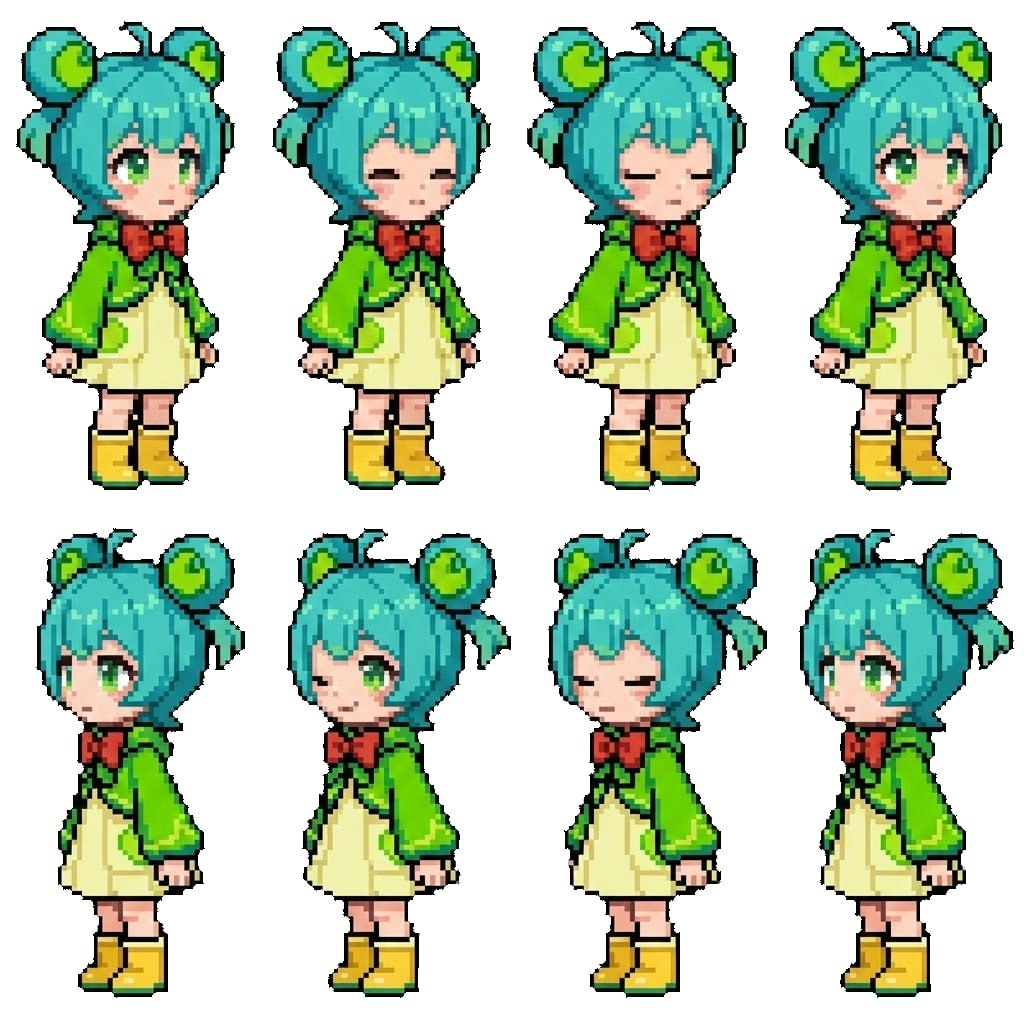
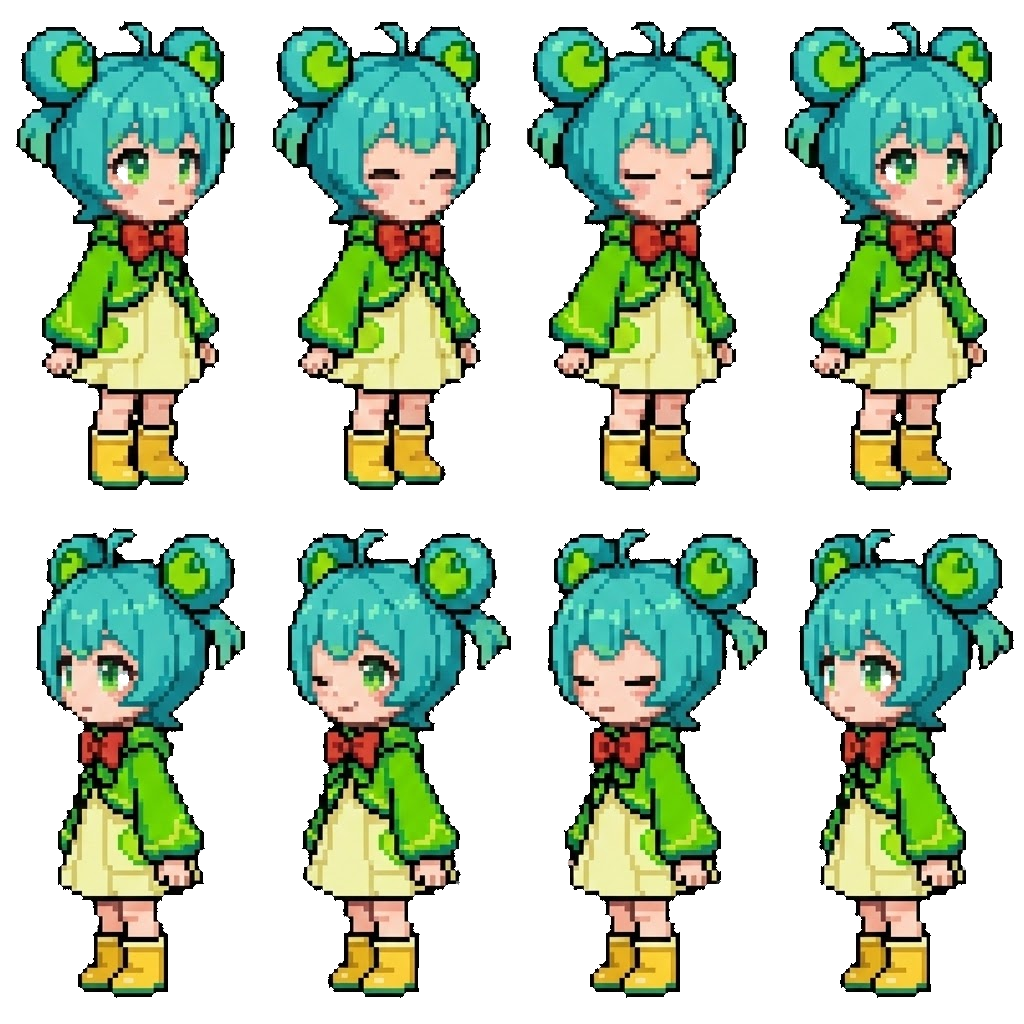
feat: 呱呱动画完成！眨眼 + 转头！🐸💚
- 替换正确的 8 帧精灵表（1024x1024 PNG）

- 帧尺寸：256x512（2 行 4 列）

- 动画：coco_idle（8 帧循环，8fps）

- 渲染：setScale(0.25) 适配大帧尺寸

diff --git a/frontend/index.html b/frontend/index.html
@@ -468,16 +468,16 @@
         }
         #asset-move-row .btn-move { color:#1f2937; }
         #asset-move-row .btn-move {
-            background-image:url('/static/btn-move-house-sprite.png?v={{VERSION_TIMESTAMP}}');
+            background-image:url('/static/btn-move-house-sprite.png?v=20260310_1010');
         }
         #asset-move-row .btn-home {
-            background-image:url('/static/btn-back-home-sprite.png?v={{VERSION_TIMESTAMP}}');
+            background-image:url('/static/btn-back-home-sprite.png?v=20260310_1010');
         }
         #asset-broker-row .btn-broker {
-            background-image:url('/static/btn-broker-sprite.png?v={{VERSION_TIMESTAMP}}');
+            background-image:url('/static/btn-broker-sprite.png?v=20260310_1010');
         }
         #asset-broker-row .btn-diy {
-            background-image:url('/static/btn-diy-sprite.png?v={{VERSION_TIMESTAMP}}');
+            background-image:url('/static/btn-diy-sprite.png?v=20260310_1010');
         }
         #asset-manual-panel {
             margin-top:0;
@@ -648,7 +648,7 @@
         #control-bar #btn-state-writing,
         #control-bar #btn-state-syncing,
         #control-bar #btn-state-error {
-            background-image: url('/static/btn-state-sprite.png?v={{VERSION_TIMESTAMP}}');
+            background-image: url('/static/btn-state-sprite.png?v=20260310_1010');
             background-color: transparent !important;
             background-repeat: no-repeat;
             background-size: 300% 100%;
@@ -683,7 +683,7 @@
         }
         /* 装修房间按钮使用像素精灵皮肤 */
         #control-bar #btn-open-drawer {
-            background-image: url('/static/btn-open-drawer-sprite.png?v={{VERSION_TIMESTAMP}}') !important;
+            background-image: url('/static/btn-open-drawer-sprite.png?v=20260310_1010') !important;
             background-color: transparent !important;
             background-repeat: no-repeat !important;
             background-size: 300% 100% !important;
@@ -1287,7 +1287,7 @@
         <button id="lang-btn-cn" onclick="setUILanguage('zh')" style="padding:8px 10px; font-family:ArkPixel,monospace; font-size:13px; cursor:pointer; border:2px solid #333; border-radius:5px; background:#333; color:#fff;">CN</button>
     </div>
 
-    <script src="/static/vendor/phaser-3.80.1.min.js?v={{VERSION_TIMESTAMP}}"></script>
+    <script src="/static/vendor/phaser-3.80.1.min.js?v=20260310_1010"></script>
     <script>
         // 简易中英文切换
         let uiLang = localStorage.getItem('uiLang') || 'en';
@@ -1390,7 +1390,7 @@
         function ensureMemoBgVisible() {
             const panel = document.getElementById('memo-panel');
             if (!panel) return;
-            panel.style.backgroundImage = "url('/static/memo-bg.webp?v={{VERSION_TIMESTAMP}}')";
+            panel.style.backgroundImage = "url('/static/memo-bg.webp?v=20260310_1010')";
             panel.classList.remove('no-bg');
         }
 
@@ -3575,7 +3575,7 @@ function toggleBrokerPanel() {
                     else if (agent.agentId === 'coco' || agent.name === '呱呱') {
                         const animKey = 'coco_idle';
                         if (game.textures.exists(animKey) && game.anims.exists(animKey)) {
-                            sprite = game.add.sprite(p.x, p.y, animKey).setOrigin(0.5, 1).setScale(0.5);
+                            sprite = game.add.sprite(p.x, p.y, animKey).setOrigin(0.5, 1).setScale(0.25);
                             sprite.anims.play(animKey, true);
                         } else {
                             sprite = game.add.text(p.x, p.y, '🐸', { fontFamily: 'ArkPixel, monospace', fontSize: '30px' }).setOrigin(0.5, 1);
@@ -4005,56 +4005,56 @@ function toggleBrokerPanel() {
 
             // cache-busting to avoid stale background on client/CDN
             // use smaller/new map version provided by user
-            this.load.image('office_bg', '/static/office_bg_small.webp?v={{VERSION_TIMESTAMP}}');
-            this.load.spritesheet('star_idle', '/static/star-idle-v5.png?v={{VERSION_TIMESTAMP}}', { frameWidth: 256, frameHeight: 256 });
+            this.load.image('office_bg', '/static/office_bg_small.webp?v=20260310_1010');
+            this.load.spritesheet('star_idle', '/static/star-idle-v5.png?v=20260310_1010', { frameWidth: 256, frameHeight: 256 });
 
             // Furniture
-            this.load.image('sofa_idle', '/static/sofa-idle-v3.png?v={{VERSION_TIMESTAMP}}');
-            this.load.image('sofa_shadow', '/static/sofa-shadow-v1.png?v={{VERSION_TIMESTAMP}}');
+            this.load.image('sofa_idle', '/static/sofa-idle-v3.png?v=20260310_1010');
+            this.load.image('sofa_shadow', '/static/sofa-shadow-v1.png?v=20260310_1010');
 
             // Decor
-            this.load.spritesheet('plants', '/static/plants-spritesheet.webp?v={{VERSION_TIMESTAMP}}', { frameWidth: 160, frameHeight: 160 });
-            this.load.spritesheet('posters', '/static/posters-spritesheet.webp?v={{VERSION_TIMESTAMP}}', { frameWidth: 160, frameHeight: 160 });
-            this.load.spritesheet('coffee_machine', '/static/coffee-machine-v3-grid.webp?v={{VERSION_TIMESTAMP}}', { frameWidth: 230, frameHeight: 230 });
-            this.load.image('coffee_machine_shadow', '/static/coffee-machine-shadow-v1.png?v={{VERSION_TIMESTAMP}}');
-            this.load.spritesheet('serverroom', '/static/serverroom-spritesheet.webp?v={{VERSION_TIMESTAMP}}', { frameWidth: 180, frameHeight: 251 });
+            this.load.spritesheet('plants', '/static/plants-spritesheet.webp?v=20260310_1010', { frameWidth: 160, frameHeight: 160 });
+            this.load.spritesheet('posters', '/static/posters-spritesheet.webp?v=20260310_1010', { frameWidth: 160, frameHeight: 160 });
+            this.load.spritesheet('coffee_machine', '/static/coffee-machine-v3-grid.webp?v=20260310_1010', { frameWidth: 230, frameHeight: 230 });
+            this.load.image('coffee_machine_shadow', '/static/coffee-machine-shadow-v1.png?v=20260310_1010');
+            this.load.spritesheet('serverroom', '/static/serverroom-spritesheet.webp?v=20260310_1010', { frameWidth: 180, frameHeight: 251 });
 
             // Error / bug animation: 180x180, 96 frames (repacked grid)
-            this.load.spritesheet('error_bug', '/static/error-bug-spritesheet-grid.webp?v={{VERSION_TIMESTAMP}}', { frameWidth: 220, frameHeight: 220 });
+            this.load.spritesheet('error_bug', '/static/error-bug-spritesheet-grid.webp?v=20260310_1010', { frameWidth: 220, frameHeight: 220 });
 
             // 运行时 Gemini 配置（用于搬家/中介生图）
             this.geminiConfig = { hasKey: false, model: 'gemini-3.1-flash-image-preview' };
 
             // Cat spritesheet: 160x160, 4x4=16 cats
-            this.load.spritesheet('cats', '/static/cats-spritesheet.webp?v={{VERSION_TIMESTAMP}}', { frameWidth: 160, frameHeight: 160 });
+            this.load.spritesheet('cats', '/static/cats-spritesheet.webp?v=20260310_1010', { frameWidth: 160, frameHeight: 160 });
 
             // Desk
             // Star working animation: repacked to grid to avoid WebGL max texture size limits
             // NOTE: prefer WebP for size, PNG fallback
             // 动态替换后按最新素材识别：当前 writing 素材为 300x300 单帧
-            this.load.spritesheet('star_working', '/static/star-working-spritesheet-grid.webp?v={{VERSION_TIMESTAMP}}', { frameWidth: 300, frameHeight: 300 });
+            this.load.spritesheet('star_working', '/static/star-working-spritesheet-grid.webp?v=20260310_1010', { frameWidth: 300, frameHeight: 300 });
 
             // Sync state animation (256x256, 多帧): 非同步显示首帧，同步从第2帧循环
-            this.load.spritesheet('sync_anim', '/static/sync-animation-v3-grid.webp?v={{VERSION_TIMESTAMP}}', { frameWidth: 256, frameHeight: 256 });
+            this.load.spritesheet('sync_anim', '/static/sync-animation-v3-grid.webp?v=20260310_1010', { frameWidth: 256, frameHeight: 256 });
 
             // Memo background image
             // memo 底图固定走 png，避免某些端 webp 透明通道异常导致“底图丢失”
-            this.load.image('memo_bg', '/static/memo-bg.webp?v={{VERSION_TIMESTAMP}}');
+            this.load.image('memo_bg', '/static/memo-bg.webp?v=20260310_1010');
             // Desk v2 (webp only)
-            this.load.image('desk_v2', '/static/desk-v3.webp?v={{VERSION_TIMESTAMP}}');
+            this.load.image('desk_v2', '/static/desk-v3.webp?v=20260310_1010');
             // Flower spritesheet (65x65, 16 frames)
-            this.load.spritesheet('flowers', '/static/flowers-bloom-v2.webp?v={{VERSION_TIMESTAMP}}', { frameWidth: FLOWERS_FRAME_W, frameHeight: FLOWERS_FRAME_H });
+            this.load.spritesheet('flowers', '/static/flowers-bloom-v2.webp?v=20260310_1010', { frameWidth: FLOWERS_FRAME_W, frameHeight: FLOWERS_FRAME_H });
 
             // Guest/Demo agent sprites
-            this.load.spritesheet('guest_anim_1', '/static/guest_anim_1.webp?v={{VERSION_TIMESTAMP}}', { frameWidth: 32, frameHeight: 32 });
-            this.load.spritesheet('guest_anim_2', '/static/guest_anim_2.webp?v={{VERSION_TIMESTAMP}}', { frameWidth: 32, frameHeight: 32 });
-            this.load.spritesheet('guest_anim_3', '/static/guest_anim_3.webp?v={{VERSION_TIMESTAMP}}', { frameWidth: 32, frameHeight: 32 });
-            this.load.spritesheet('guest_anim_4', '/static/guest_anim_4.webp?v={{VERSION_TIMESTAMP}}', { frameWidth: 32, frameHeight: 32 });
-            this.load.spritesheet('guest_anim_5', '/static/guest_anim_5.webp?v={{VERSION_TIMESTAMP}}', { frameWidth: 32, frameHeight: 32 });
-            this.load.spritesheet('guest_anim_6', '/static/guest_anim_6.webp?v={{VERSION_TIMESTAMP}}', { frameWidth: 32, frameHeight: 32 });
-            this.load.image('coco-role', '/static/coco-role.png?v={{VERSION_TIMESTAMP}}');
-            this.load.spritesheet('coco-idle', '/static/coco-idle.png?v={{VERSION_TIMESTAMP}}', { frameWidth: 256, frameHeight: 256 });
-            this.load.spritesheet('lumi_idle', '/static/lumi-idle-spritesheet.png?v={{VERSION_TIMESTAMP}}', { frameWidth: 128, frameHeight: 128 });
+            this.load.spritesheet('guest_anim_1', '/static/guest_anim_1.webp?v=20260310_1010', { frameWidth: 32, frameHeight: 32 });
+            this.load.spritesheet('guest_anim_2', '/static/guest_anim_2.webp?v=20260310_1010', { frameWidth: 32, frameHeight: 32 });
+            this.load.spritesheet('guest_anim_3', '/static/guest_anim_3.webp?v=20260310_1010', { frameWidth: 32, frameHeight: 32 });
+            this.load.spritesheet('guest_anim_4', '/static/guest_anim_4.webp?v=20260310_1010', { frameWidth: 32, frameHeight: 32 });
+            this.load.spritesheet('guest_anim_5', '/static/guest_anim_5.webp?v=20260310_1010', { frameWidth: 32, frameHeight: 32 });
+            this.load.spritesheet('guest_anim_6', '/static/guest_anim_6.webp?v=20260310_1010', { frameWidth: 32, frameHeight: 32 });
+            this.load.image('coco-role', '/static/coco-role.png?v=20260310_1010');
+            this.load.spritesheet('coco-idle', '/static/coco-idle.png?v=20260310_1010', { frameWidth: 256, frameHeight: 256 });
+            this.load.spritesheet('lumi_idle', '/static/lumi-idle-spritesheet.png?v=20260310_1010', { frameWidth: 128, frameHeight: 128 });
         }
 
         function create() {
@@ -4106,6 +4106,8 @@ function toggleBrokerPanel() {
                 frameRate: 8,
                 repeat: -1
             });
+
+            // 呱呱静态图（备用）
 
             // 露米 idle 动画（8 帧循环）
             this.anims.create({
